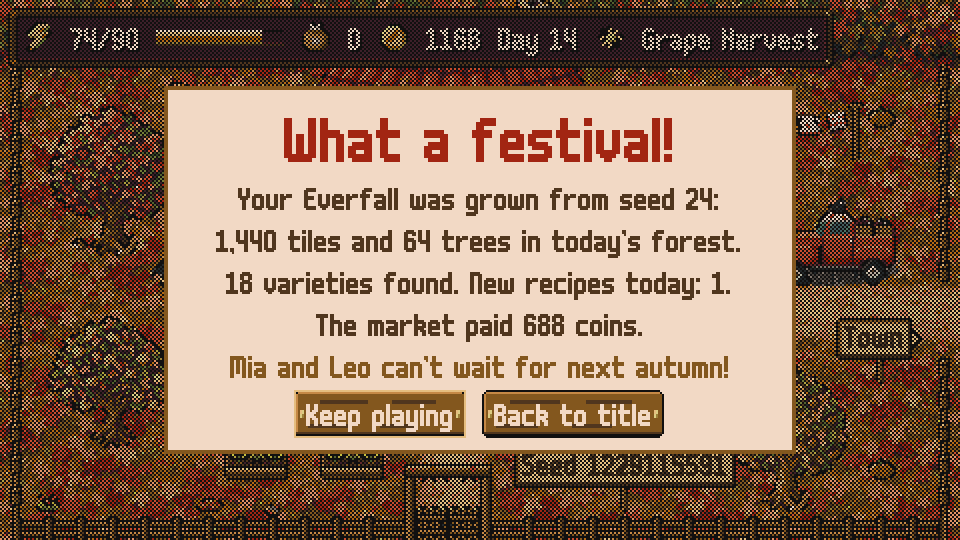
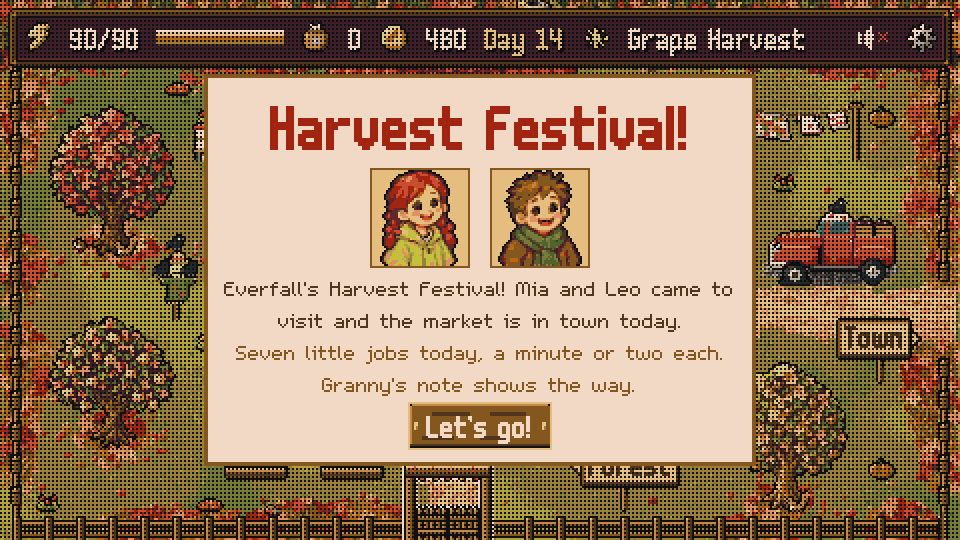
docs: festival card and screenshot cleanup

diff --git a/README.md b/README.md
@@ -138,14 +138,10 @@ Every system draws from its own random stream, seeded with `hash(save seed, day,
 
 <table align="center">
   <tr>
-    <td align="center" width="50%"><img src="shots/forest_regrow.gif" alt="The same seed grows the same forest twice, a new seed grows a new one" width="460"><br><sub>Same seed, same forest. New seed, new forest.</sub></td>
     <td align="center" width="50%"><img src="shots/jar_wall.gif" alt="A wall filling up with generated jars and their names" width="460"><br><sub>Every jar is generated: name, label, taste and value.</sub></td>
+    <td align="center" width="50%"><img src="shots/species.gif" alt="Generated forest species, each with its name and icon" width="460"><br><sub>New wild species, named and drawn from the seed.</sub></td>
   </tr>
 </table>
-<p align="center">
-  <img src="shots/species.gif" alt="Generated forest species, each with its name and icon" width="960"><br>
-  <sub>New wild species, named and drawn from the seed.</sub>
-</p>
 
 <details>
 <summary><b>Watch it happen: the Forest Lab</b></summary>
